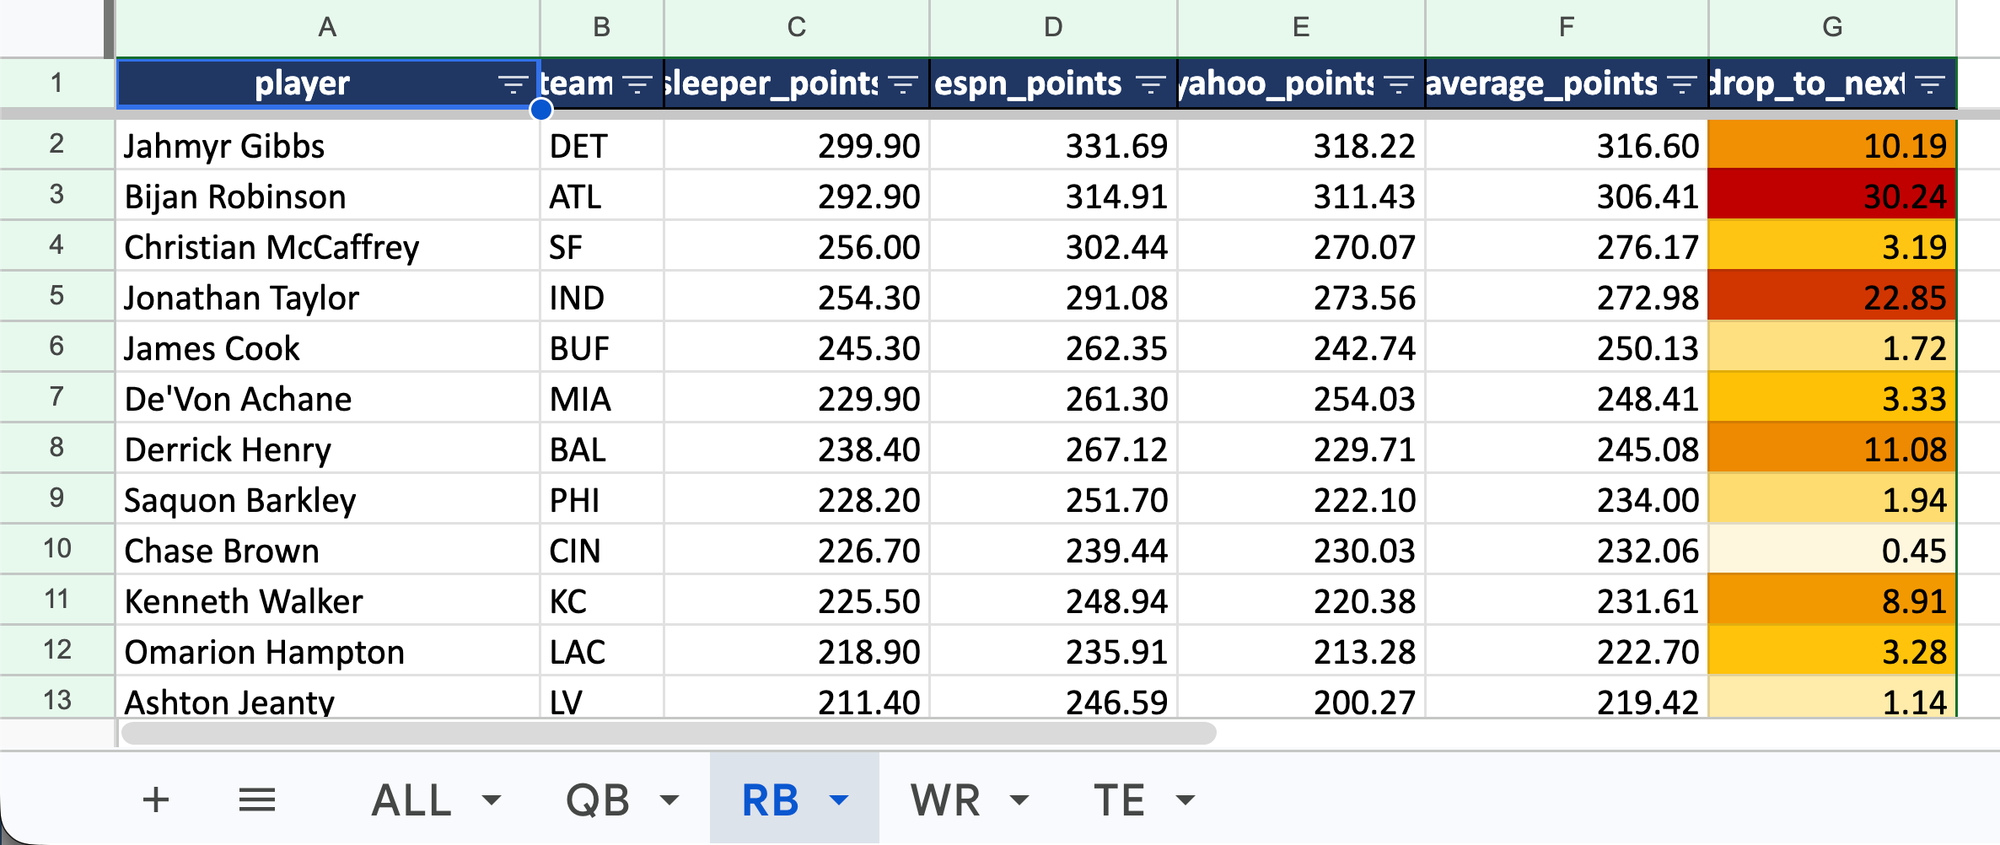
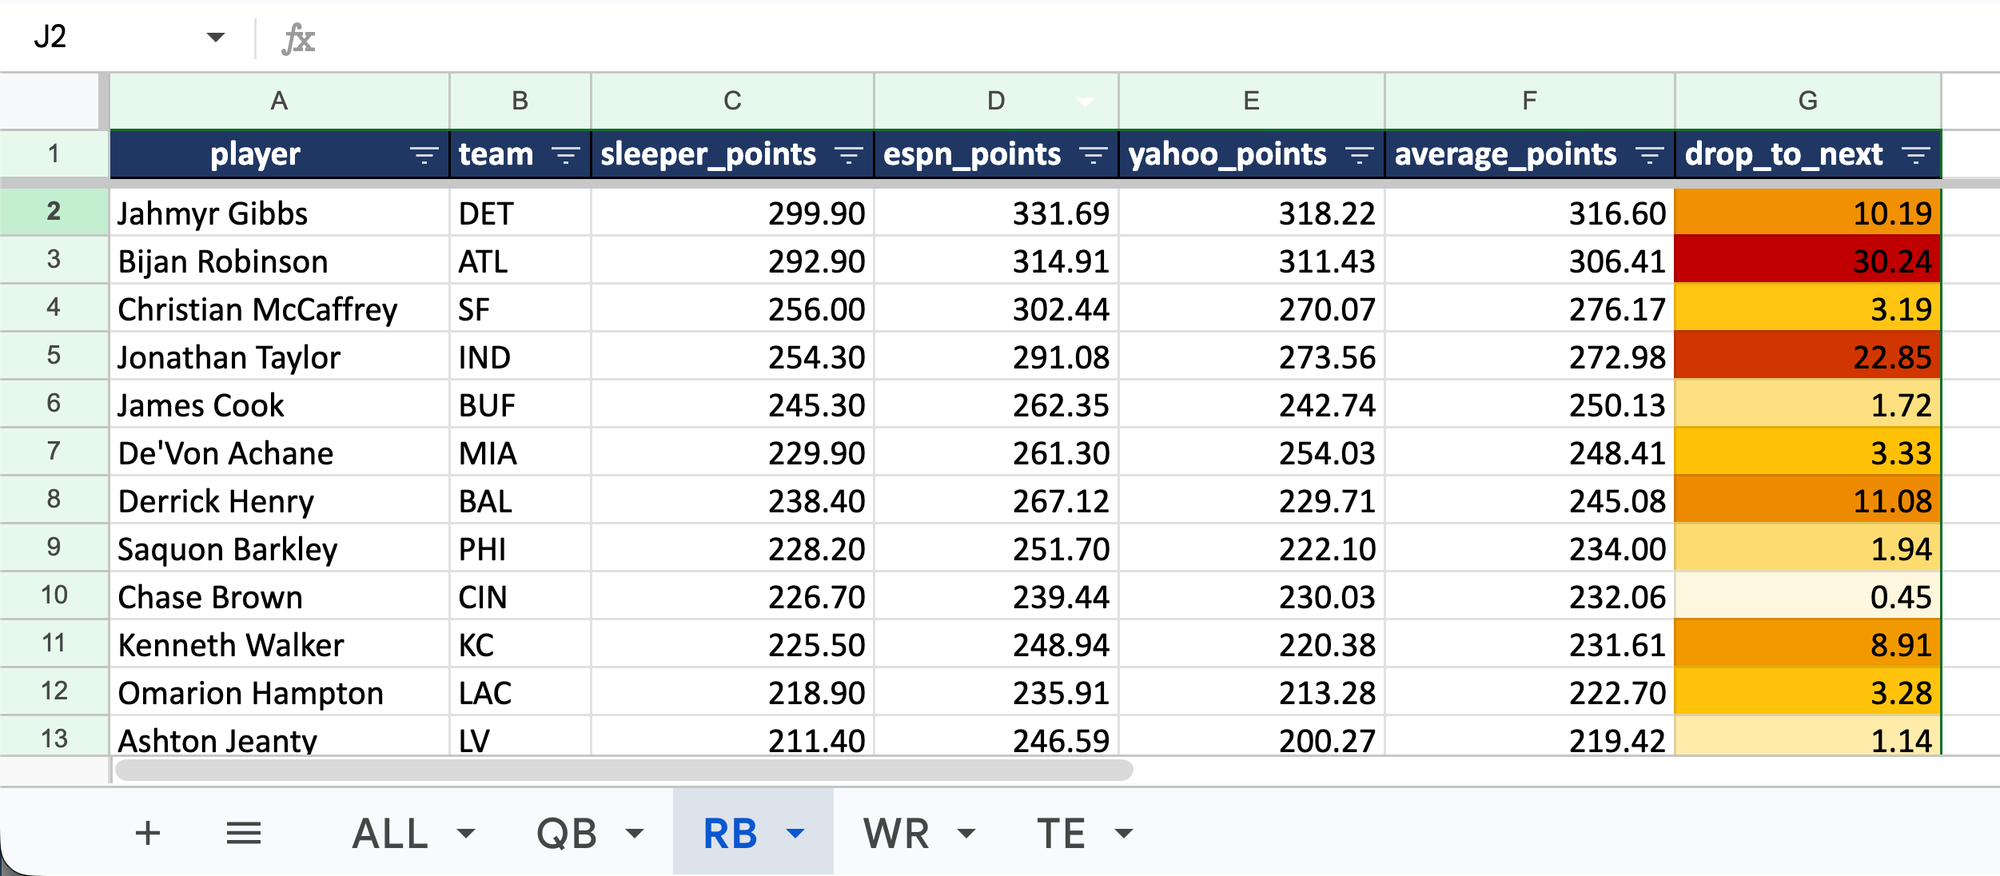
Widen workbook columns so headers aren't clipped; refresh screenshot
Bold headers were being cut off by the autofilter buttons. The new widths
match the updated README screenshot.

diff --git a/fantasy_projections/excel_export.py b/fantasy_projections/excel_export.py
@@ -43,16 +43,17 @@ POSITION_COLUMNS = [
     "drop_to_next",
 ]
 
-# Reasonable on-screen widths per column name.
+# On-screen widths per column name, wide enough that bold headers aren't
+# clipped by the filter buttons.
 COLUMN_WIDTHS = {
     "player": 24,
-    "team": 7,
-    "position": 10,
-    "sleeper_points": 15,
-    "espn_points": 14,
-    "yahoo_points": 14,
-    "average_points": 16,
-    "drop_to_next": 14,
+    "team": 9,
+    "position": 12,
+    "sleeper_points": 19,
+    "espn_points": 17,
+    "yahoo_points": 18,
+    "average_points": 20,
+    "drop_to_next": 18,
 }
 
 HEADER_FILL = PatternFill("solid", fgColor="1F3864")
